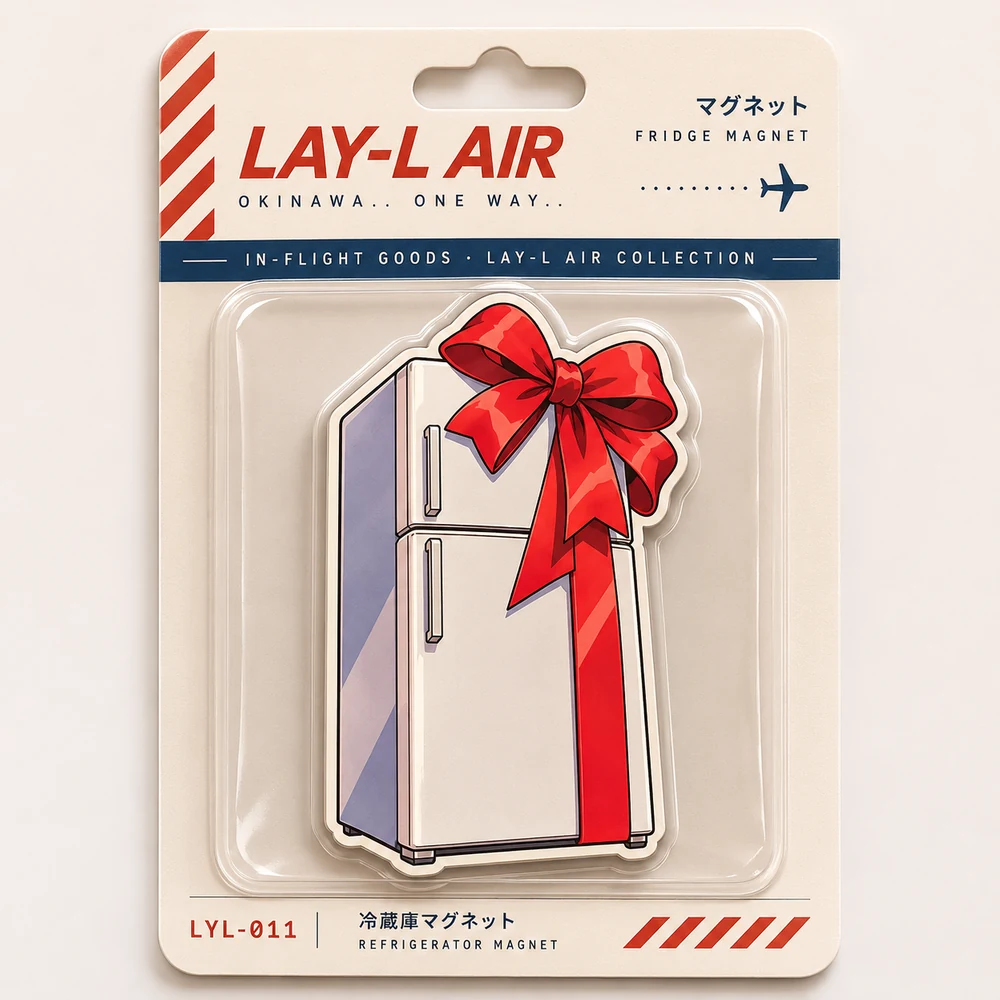
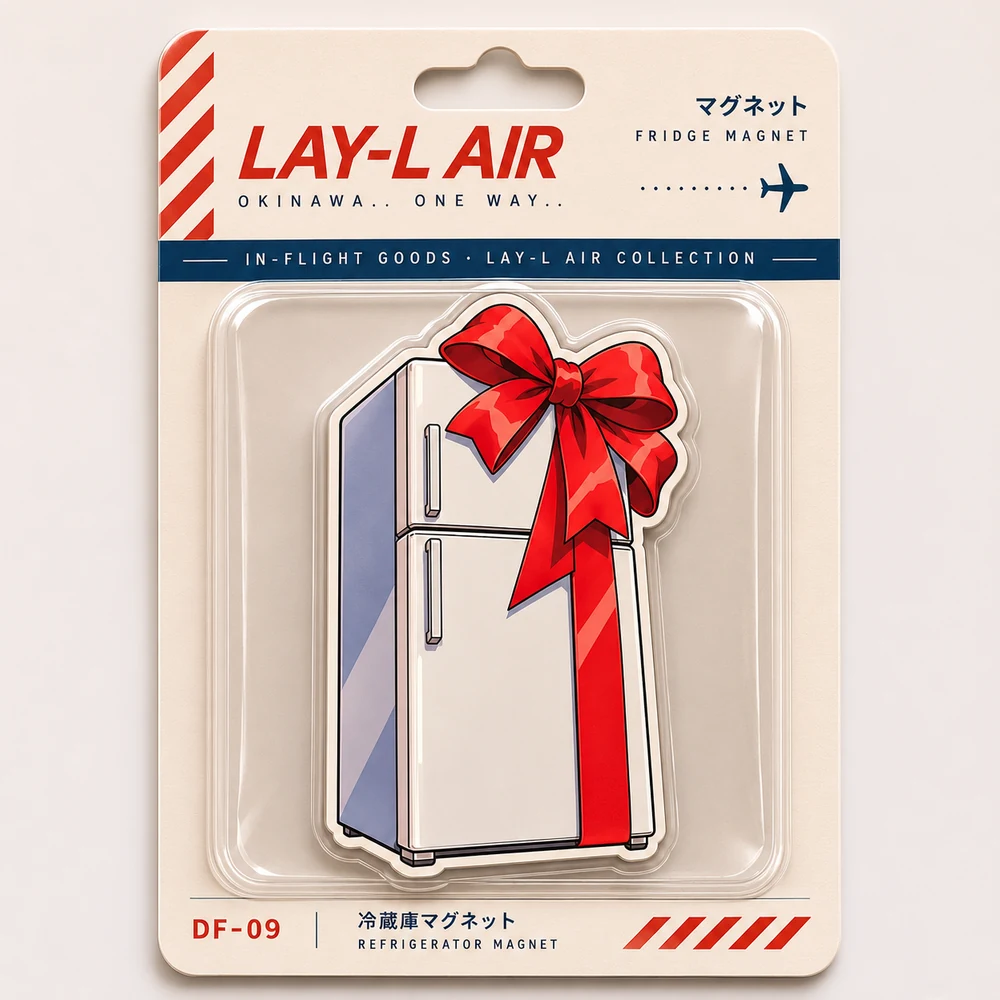
Shop: pin and magnet cards with DF codes
Claude-Session: https://claude.ai/code/session_013w5yMdZKv437No8p47gv7E

diff --git a/okinawa/index.html b/okinawa/index.html
@@ -646,7 +646,7 @@ if("IntersectionObserver" in window)new IntersectionObserver(function(es){es.for
   <section class="sec" id="shop"><div class="sec-k">Duty-free · 免税店</div><h2>The in-flight shop<small>Coming soon</small></h2>
     <p class="sec-lede">One-way souvenirs from every channel on the album. Codes match the Duty Free order form in the print edition. Nothing is for sale yet: follow us to hear first when the shop opens.</p>
     <button type="button" class="notify top" data-land>Notify me when we land <i aria-hidden="true">→</i></button>
-    <div class="shop-feat"><article class="item feat flag"><div class="ph full"><img src="shop/df-vinyl.webp" alt="Okinawa.. One Way… vinyl LP leaning against its album sleeve" loading="lazy" width="1000" height="1000"><span class="soon">Coming soon</span></div><div class="t"><span class="k">DF-01 · Vinyl · Flagship</span><h3>Okinawa.. One Way… on vinyl</h3><p>All fourteen channels on one LP, in the original album sleeve. Drop the needle, fasten your seatbelt.</p></div></article><article class="item feat"><div class="ph full"><img src="shop/df-magazine.webp" alt="LAY-L AIR in-flight art publication with its belly band and boarding pass" loading="lazy" width="1000" height="1000"><span class="soon">Coming soon</span></div><div class="t"><span class="k">DF-02 · Print · Edition of 1000</span><h3>LAY-L AIR, the in-flight art publication</h3><p>The print edition of this magazine: 120 pages, numbered, with a boarding pass under the belly band.</p></div></article></div><div class="shop-grid"><article class="item"><div class="ph full"><img src="shop/df-mug.webp?v=3" alt="Cream ceramic LAY-L AIR mug with a red rim, a plane and a red livery stripe" loading="lazy" width="1000" height="1000"><span class="soon">Coming soon</span></div><div class="t"><span class="k">DF-03 · Mug</span><h3>Red Rim Mug</h3><p>Ceramic, 330 ml, with a red rim and the LAY-L AIR livery. For the tea you drink alone.</p></div></article><article class="item"><div class="ph full"><img src="shop/df-pins.webp?v=3" alt="Three enamel pins, a red plane, a pink sakura and a gold cricket, on a LAY-L AIR backing card" loading="lazy" width="1000" height="1000"><span class="soon">Coming soon</span></div><div class="t"><span class="k">DF-04 · Pin set</span><h3>Channel Pins</h3><p>Three enamel pins on a LAY-L AIR card: a plane, a sakura blossom and a cricket.</p></div></article><article class="item"><div class="ph full"><img src="shop/df-keychain.webp?v=2" alt="Corked glass vial keychain holding a rolled sakura-stamped fortune tied with red cord, on a gold chain with a red tassel" loading="lazy" width="1000" height="1000"><span class="soon">Coming soon</span></div><div class="t"><span class="k">DF-05 · Keychain</span><h3>Omikuji Keychain</h3><p>A fortune slip sealed in a glass vial, with a red tassel. Never unfold it.</p></div></article><article class="item"><div class="ph full"><img src="shop/df-plush.webp?v=2" alt="Soft yarn voodoo doll plush with a red thread bow at its neck" loading="lazy" width="1000" height="1000"><span class="soon">Coming soon</span></div><div class="t"><span class="k">DF-06 · Plush</span><h3>Voodoo Doll Plush</h3><p>Stitched by hand, tied with red thread. Pins not included.</p></div></article><article class="item"><div class="ph full"><img src="shop/df-teaset.webp?v=2" alt="Crackle-glaze sakura teapot and two cups on a wooden tray" loading="lazy" width="1000" height="1000"><span class="soon">Coming soon</span></div><div class="t"><span class="k">DF-07 · Tea set</span><h3>Sakura Tea Set</h3><p>A teapot and two cups on a wooden tray. Breakfast, for two.</p></div></article><article class="item"><div class="ph full"><img src="shop/df-tshirt.webp?v=3" alt="Cream T-shirt printed with LAY-L AIR, Okinawa.. One Way… and In-flight goods across the chest" loading="lazy" width="1000" height="1000"><span class="soon">Coming soon</span></div><div class="t"><span class="k">DF-08 · T-shirt</span><h3>LAY-L AIR Crew Tee</h3><p>Cream cotton with the LAY-L AIR livery across the chest. One way only.</p></div></article><article class="item"><div class="ph full"><img src="shop/df-magnet.webp?v=3" alt="Refrigerator-shaped magnet wrapped in a red bow, in its LAY-L AIR blister card" loading="lazy" width="1000" height="1000"><span class="soon">Coming soon</span></div><div class="t"><span class="k">DF-09 · Magnet</span><h3>Refrigerator Magnet</h3><p>A fridge, gift-wrapped in a red bow. For your fridge.</p></div></article><article class="item"><div class="ph full"><img src="shop/df-stickers-stamps.webp?v=3" style="position:absolute;inset:0;object-position:50% 12%" alt="LAY-L AIR stamp sticker set: fourteen postage-stamp stickers in a clear sleeve with an airline header card" loading="lazy" width="750" height="1024"><span class="soon">Coming soon</span></div><div class="t"><span class="k">DF-10 · Stickers · 14 pcs</span><h3>Stamp Sticker Set</h3><p>Fourteen postage-stamp stickers, one for every channel, in a LAY-L AIR sleeve.</p></div></article></div>
+    <div class="shop-feat"><article class="item feat flag"><div class="ph full"><img src="shop/df-vinyl.webp" alt="Okinawa.. One Way… vinyl LP leaning against its album sleeve" loading="lazy" width="1000" height="1000"><span class="soon">Coming soon</span></div><div class="t"><span class="k">DF-01 · Vinyl · Flagship</span><h3>Okinawa.. One Way… on vinyl</h3><p>All fourteen channels on one LP, in the original album sleeve. Drop the needle, fasten your seatbelt.</p></div></article><article class="item feat"><div class="ph full"><img src="shop/df-magazine.webp" alt="LAY-L AIR in-flight art publication with its belly band and boarding pass" loading="lazy" width="1000" height="1000"><span class="soon">Coming soon</span></div><div class="t"><span class="k">DF-02 · Print · Edition of 1000</span><h3>LAY-L AIR, the in-flight art publication</h3><p>The print edition of this magazine: 120 pages, numbered, with a boarding pass under the belly band.</p></div></article></div><div class="shop-grid"><article class="item"><div class="ph full"><img src="shop/df-mug.webp?v=3" alt="Cream ceramic LAY-L AIR mug with a red rim, a plane and a red livery stripe" loading="lazy" width="1000" height="1000"><span class="soon">Coming soon</span></div><div class="t"><span class="k">DF-03 · Mug</span><h3>Red Rim Mug</h3><p>Ceramic, 330 ml, with a red rim and the LAY-L AIR livery. For the tea you drink alone.</p></div></article><article class="item"><div class="ph full"><img src="shop/df-pins.webp?v=4" alt="Three enamel pins, a red plane, a pink sakura and a gold cricket, on a LAY-L AIR backing card" loading="lazy" width="1000" height="1000"><span class="soon">Coming soon</span></div><div class="t"><span class="k">DF-04 · Pin set</span><h3>Channel Pins</h3><p>Three enamel pins on a LAY-L AIR card: a plane, a sakura blossom and a cricket.</p></div></article><article class="item"><div class="ph full"><img src="shop/df-keychain.webp?v=2" alt="Corked glass vial keychain holding a rolled sakura-stamped fortune tied with red cord, on a gold chain with a red tassel" loading="lazy" width="1000" height="1000"><span class="soon">Coming soon</span></div><div class="t"><span class="k">DF-05 · Keychain</span><h3>Omikuji Keychain</h3><p>A fortune slip sealed in a glass vial, with a red tassel. Never unfold it.</p></div></article><article class="item"><div class="ph full"><img src="shop/df-plush.webp?v=2" alt="Soft yarn voodoo doll plush with a red thread bow at its neck" loading="lazy" width="1000" height="1000"><span class="soon">Coming soon</span></div><div class="t"><span class="k">DF-06 · Plush</span><h3>Voodoo Doll Plush</h3><p>Stitched by hand, tied with red thread. Pins not included.</p></div></article><article class="item"><div class="ph full"><img src="shop/df-teaset.webp?v=2" alt="Crackle-glaze sakura teapot and two cups on a wooden tray" loading="lazy" width="1000" height="1000"><span class="soon">Coming soon</span></div><div class="t"><span class="k">DF-07 · Tea set</span><h3>Sakura Tea Set</h3><p>A teapot and two cups on a wooden tray. Breakfast, for two.</p></div></article><article class="item"><div class="ph full"><img src="shop/df-tshirt.webp?v=3" alt="Cream T-shirt printed with LAY-L AIR, Okinawa.. One Way… and In-flight goods across the chest" loading="lazy" width="1000" height="1000"><span class="soon">Coming soon</span></div><div class="t"><span class="k">DF-08 · T-shirt</span><h3>LAY-L AIR Crew Tee</h3><p>Cream cotton with the LAY-L AIR livery across the chest. One way only.</p></div></article><article class="item"><div class="ph full"><img src="shop/df-magnet.webp?v=4" alt="Refrigerator-shaped magnet wrapped in a red bow, in its LAY-L AIR blister card" loading="lazy" width="1000" height="1000"><span class="soon">Coming soon</span></div><div class="t"><span class="k">DF-09 · Magnet</span><h3>Refrigerator Magnet</h3><p>A fridge, gift-wrapped in a red bow. For your fridge.</p></div></article><article class="item"><div class="ph full"><img src="shop/df-stickers-stamps.webp?v=3" style="position:absolute;inset:0;object-position:50% 12%" alt="LAY-L AIR stamp sticker set: fourteen postage-stamp stickers in a clear sleeve with an airline header card" loading="lazy" width="750" height="1024"><span class="soon">Coming soon</span></div><div class="t"><span class="k">DF-10 · Stickers · 14 pcs</span><h3>Stamp Sticker Set</h3><p>Fourteen postage-stamp stickers, one for every channel, in a LAY-L AIR sleeve.</p></div></article></div>
   </section>
   <dialog class="land" id="land" aria-labelledby="land-h"><button type="button" class="x" data-close aria-label="Close">✕</button>
     <div class="plist"><div class="pl-main"><span class="pl-k">Duty-free · 免税店</span><h2 class="pl-h" id="land-h">Notify me when we land</h2>
